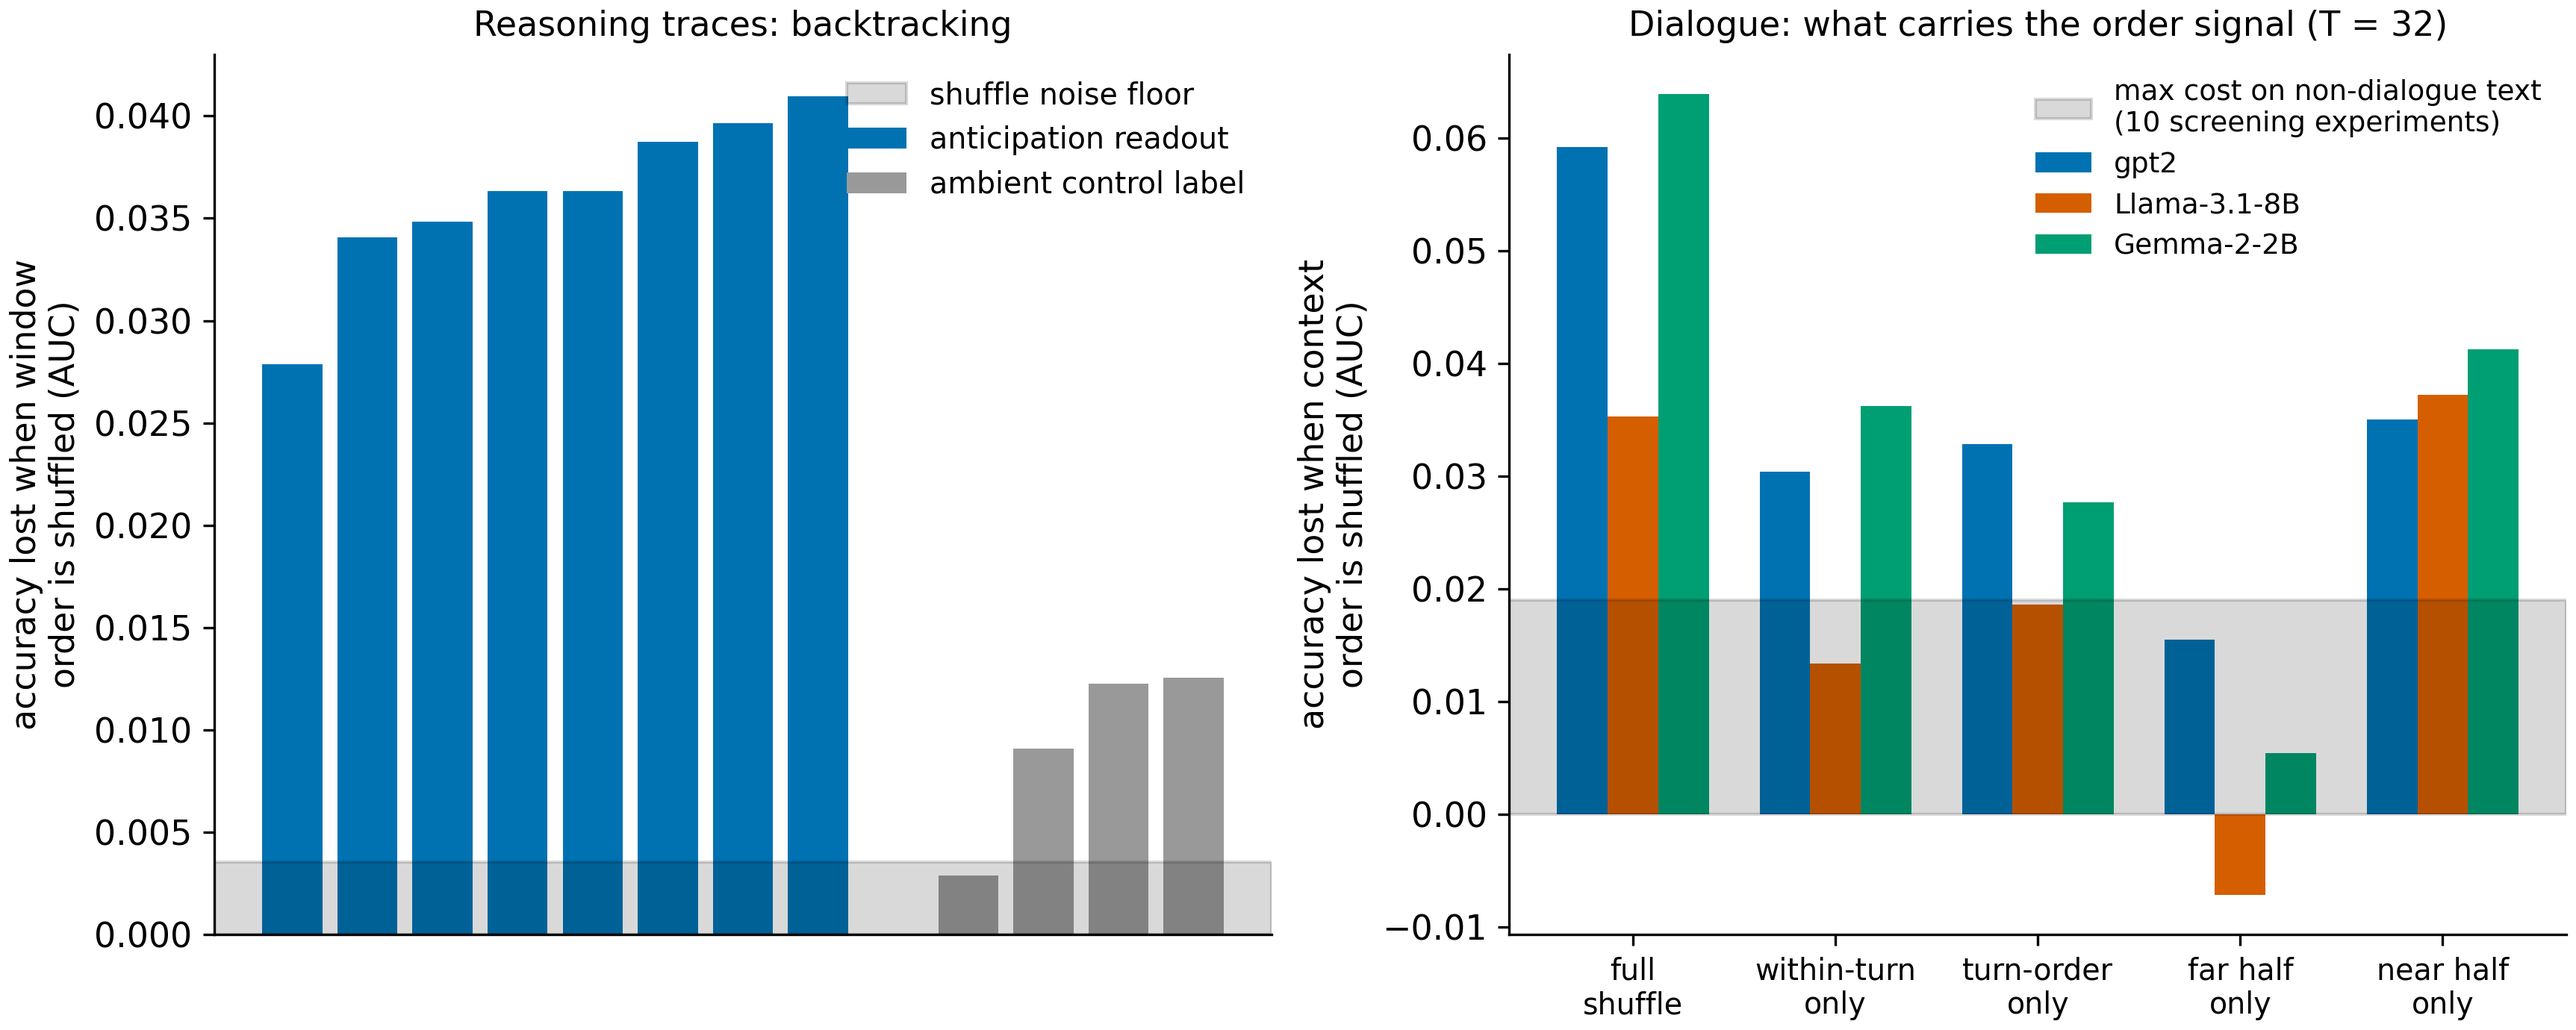
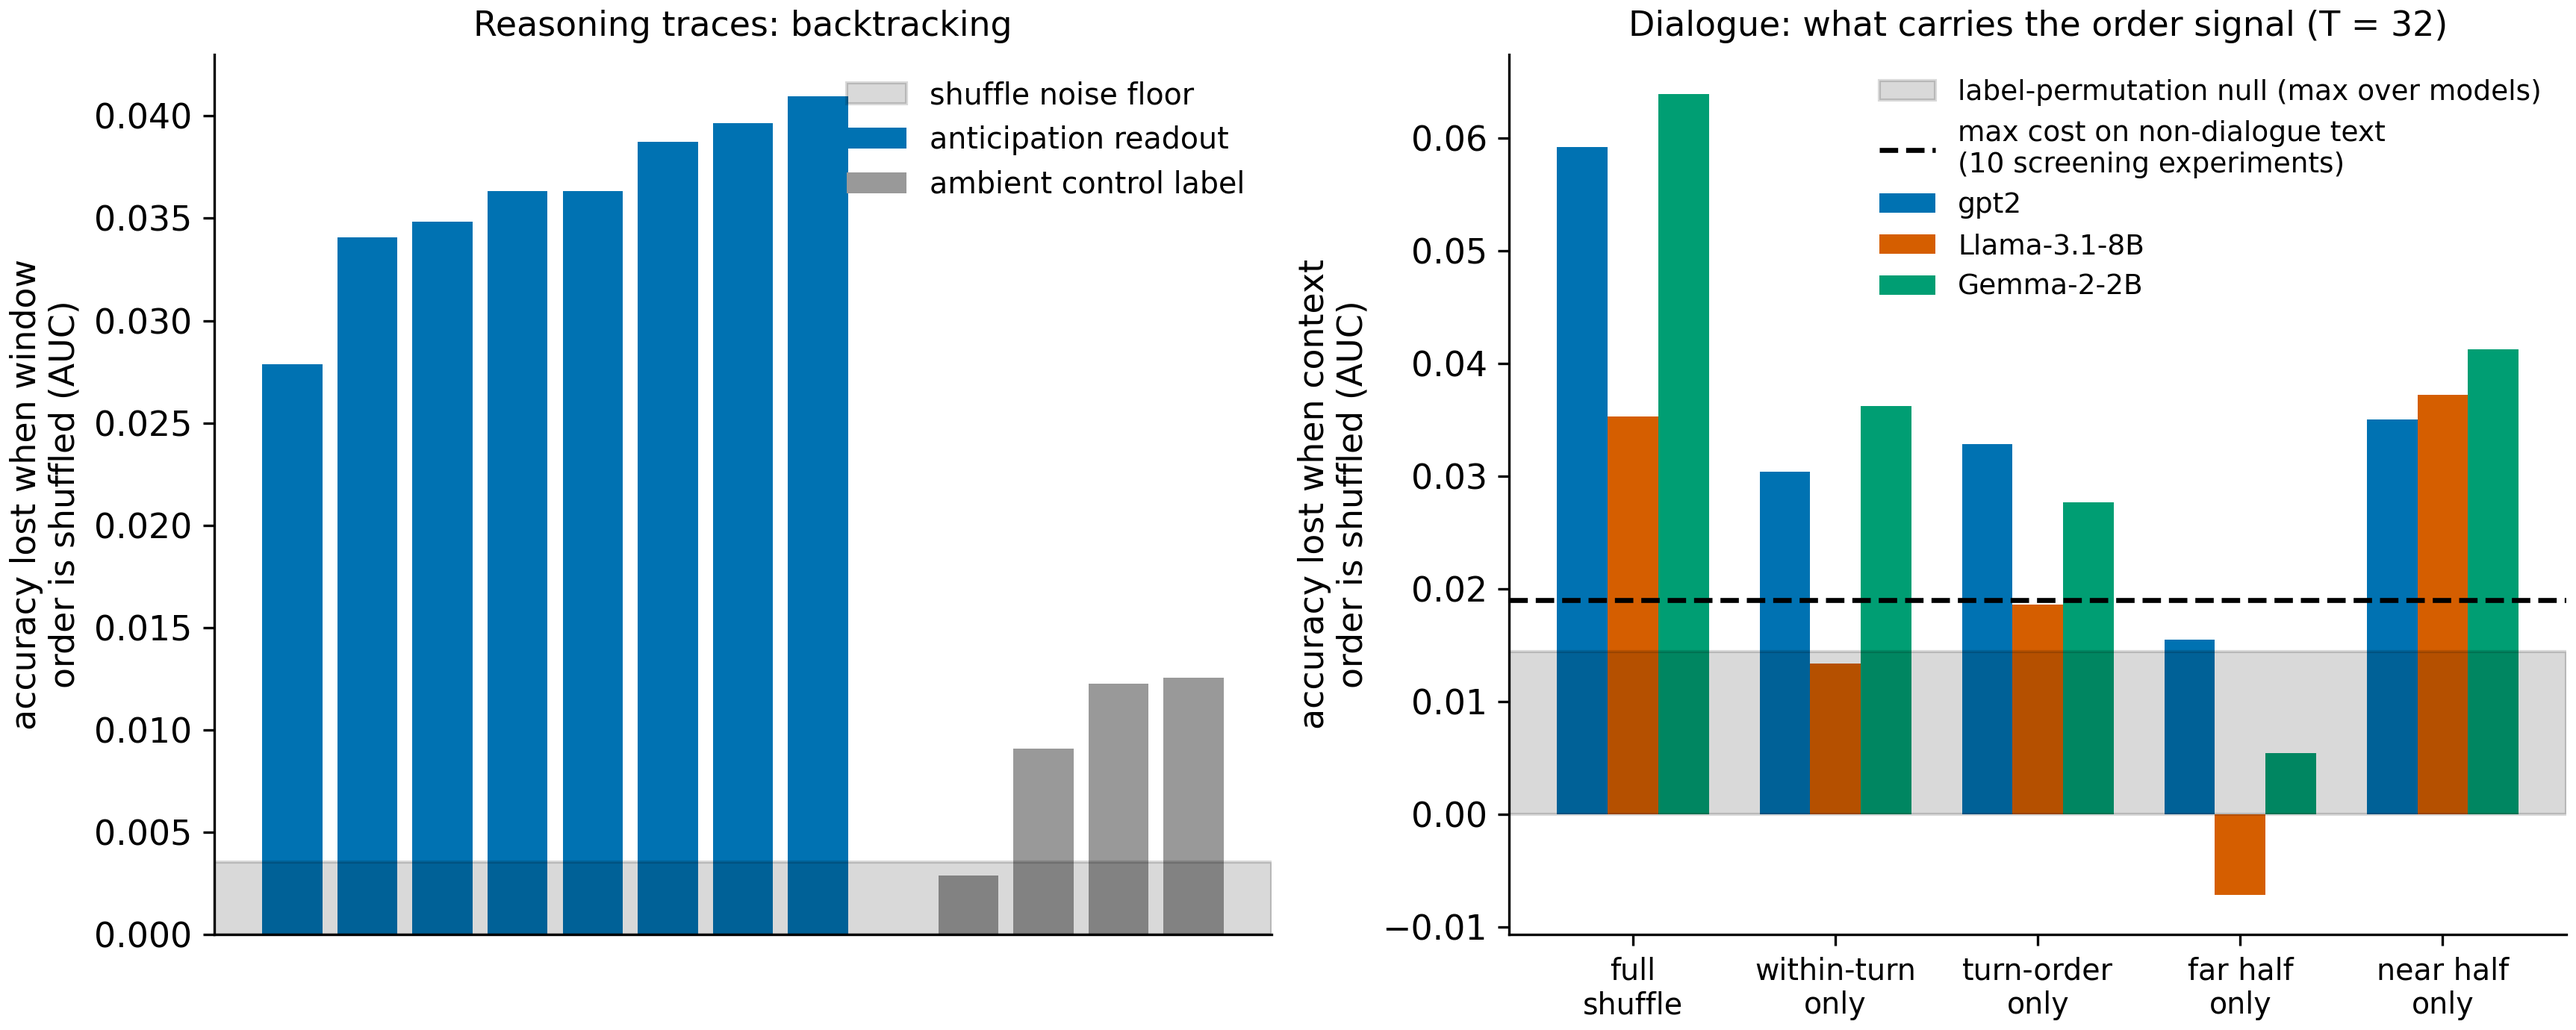
fig3 revised per mac-b's flagged critique: right panel grey band = label-permutation null, broad-text max = dashed line (two reference types no longer conflated); caption matched; mac-b's negatives_table_data adopted for the S6 table anchoring

Changed region(s): [[0.7133, 0.0623, 0.9925, 0.2804], [0.5893, 0.5609, 1.0, 0.6543]]

diff --git a/experiments/explorations/task_hunt/WRITEUP.md b/experiments/explorations/task_hunt/WRITEUP.md
@@ -259,10 +259,12 @@ Three measurements, together, explain the pattern:
 
 *Figure 3: what shuffling context order costs. Left: backtracking —
 shuffle destroys the anticipation readout but barely touches an
-ambient control label. Right: dialogue — the cost decomposes between
-within-turn and turn-level order, concentrated in the near half of
-the window; on broad text (grey reference band) shuffling costs
-nothing.*
+ambient control label (grey: shuffle noise floor). Right: dialogue —
+the cost decomposes between within-turn and turn-level order,
+concentrated in the near half of the window. Grey band: the
+label-permutation null (the "no signal" region); dashed line: the
+largest shuffle cost ever measured on non-dialogue text across ten
+screening experiments — dialogue's full-shuffle cost clears both.*
 
 Task 1 has an order-carried readout on reasoning traces; Task 2 sits
 on the one substrate whose order signal we measured and decomposed.
